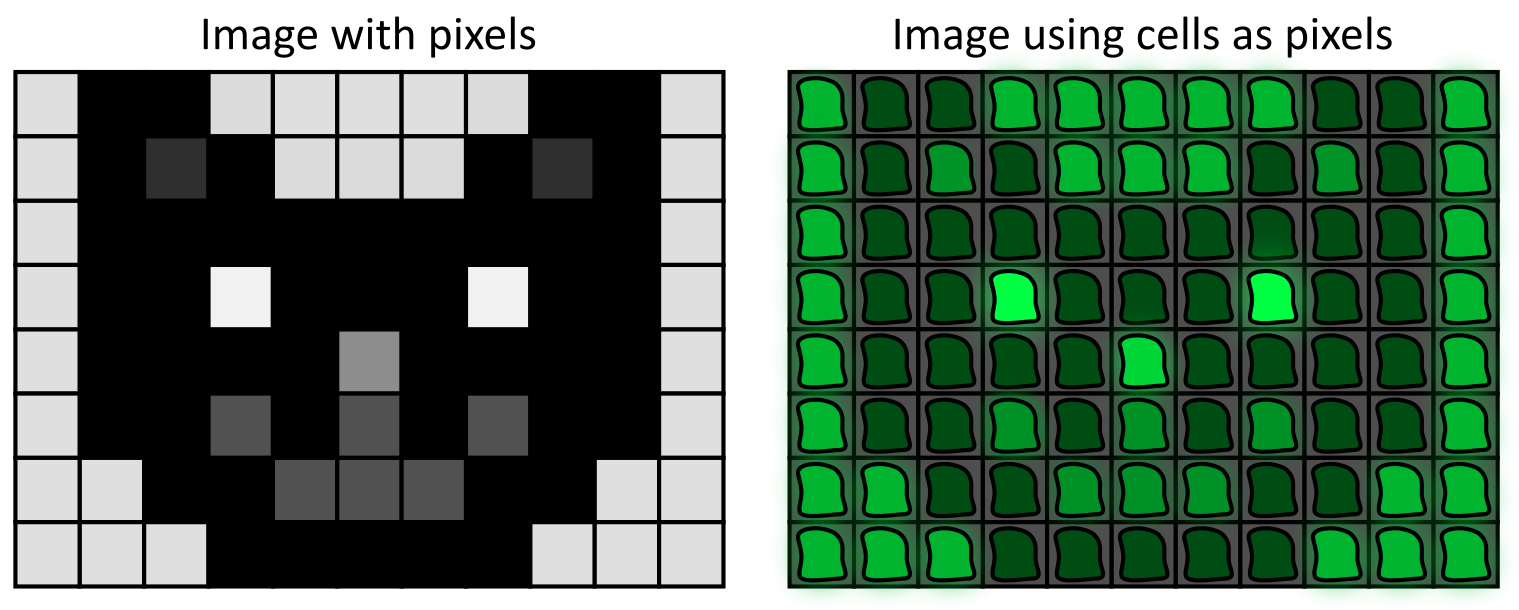
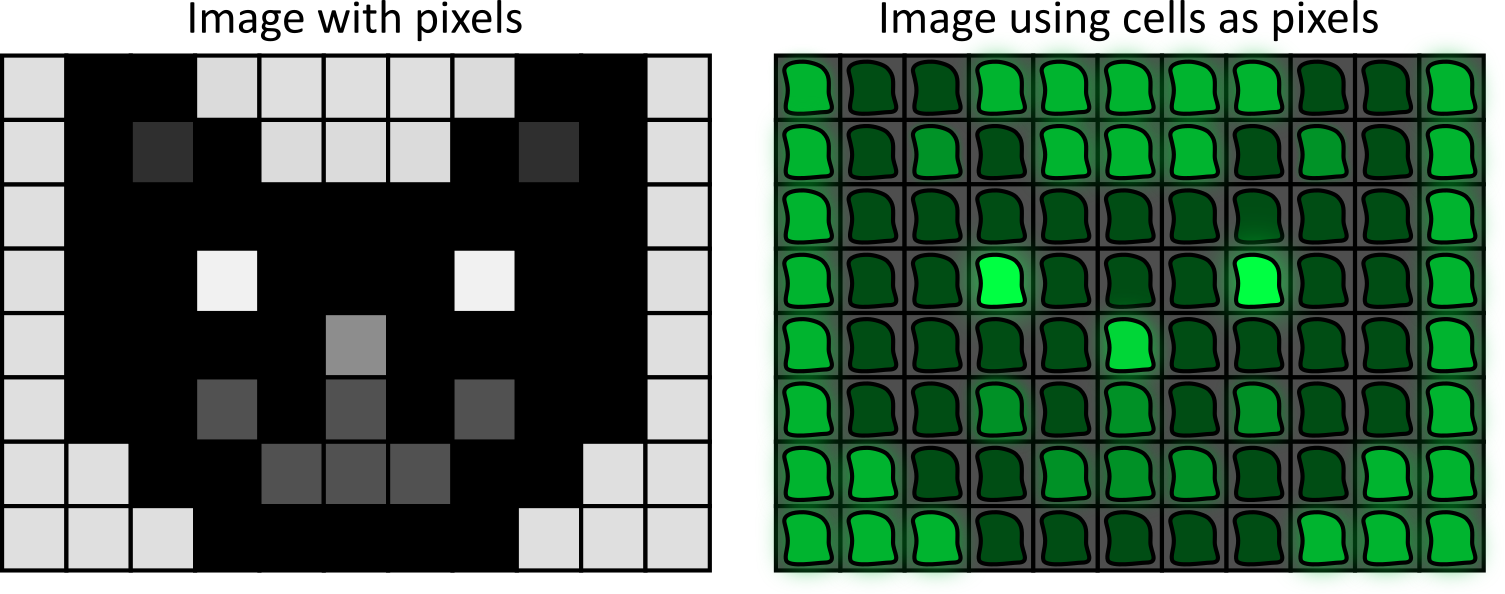
Fixing formatting in optogenetics piece

diff --git a/writing/optogenetics.md b/writing/optogenetics.md
@@ -10,7 +10,8 @@ A few years ago, the Dunlop lab recreated a short gray-scale clip from _2001: A 
 
 First, we’ll talk about the “how”. Let’s take a step back and think about how displaying a gray-scale video works. Each frame of the video is a still image displayed on a grid of pixels, with the pixels glowing at different intensities. The lighter and darker spaces in the grid come together to make an image. To recreate this effect using bacteria, we start by assigning each bacterial cell to a grid coordinate. Then, we make the cells glow at different intensities.
 
-![Comparison of making pixel art of a cat with square pixels vs. glowing bacterial cells. The squares are different shades of gray. The bacterial cells are green blobs in gray squares. Some of the greens are brighter while others are darker.](/assets/images/cat_cells.png)
+<img src="./assets/images/cat_cells.png" alt="Comparison of making pixel art of a cat with square pixels vs. glowing bacterial cells. The squares are different shades of gray. The bacterial cells are green blobs in gray squares. Some of the greens are brighter while others are darker." style="border: 2px solid #ccc; border-radius: 4px; width: 100%; max-width: 100%; height: auto;">
+
 
 To make the cells glow, we use green fluorescent protein (GFP)[^GFP]. GFP can absorb energy from blue or white light and become “excited”. However, it can’t hold energy in its excited state for very long. To stop being excited, it has to release all of the energy that it hasn’t already used. Releasing the excess energy causes an emission of green light (~509 nm).
 
@@ -22,7 +23,7 @@ Because the newly added phosphate molecule is negatively charged, CcaR changes i
 
 What if a cell is already bright and we need to make it dimmer? Then, instead of shining green light on the cell, we use red light. Under red light, CcaS reverts to its original shape and _dephosphorylates_ CcaR. Since CcaR is deactivated, GFP gene expression is turned off. Since GFP production stops and proteins degrade over time, the amount of GFP in the cell decreases. As a result, the cell glows less brightly.
 
-![A schematic demonstrating how the CcaSR system that the Dunlop Lab used works. ](/assets/images/Lugagne_2024.png)
+<img src="./assets/images/Lugagne_2024.png" alt="A schematic demonstrating how the CcaSR system that the Dunlop Lab used works." style="border: 2px solid #ccc; border-radius: 4px; width: 100%; max-width: 100%; height: auto;">
 <small>A schematic demonstrating how the CcaSR system that the Dunlop Lab used works. This image is from Lugagne _et al._ 2024 in Nature Communications. It is cropped from Figure 1 but is otherwise unaltered.</small>
 
 So, we can use green light to make cells glow more and red light to make them glow less. Now we have all the tools we need to make a single frame in a video. However, videos are a series of frames. To transition from one frame to another, pixels are programmed to change how much they are glowing over time. Can we use our red and green light controls to make each individual cell glow in a specific pattern over time?

diff --git a/writing.md b/writing.md
@@ -1,6 +1,6 @@
 # Writing
 
-I like writing a lot. This is where I put pieces about science that I've made for fun. Right now, I'm trying to get better at writing about technical topics for a general audience.
+I enjoy writing. This is where I put pieces about science that I've made for fun. Right now, I'm trying to get better at writing about technical topics for a general audience.
 
 <div class="tiles-container">
   {% for page in site.pages %}
